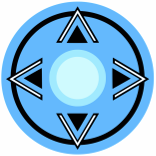
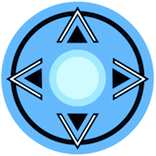
Fixed indentation of controls in CSS and changed opacity of control joysticks

diff --git a/app/assets/stylesheets/application.scss b/app/assets/stylesheets/application.scss
@@ -153,21 +153,23 @@ body {
 }
 
 div#control_rotate_circle {
-    position: absolute;
-    background-image: url(interface/joystick.png);
-    width: 156px;
-    height: 156px;
-    bottom: 20px;
-    left: 20px;
-    z-index: 100;
+  position: absolute;
+  background-image: url(interface/joystick.png);
+  width: 156px;
+  height: 156px;
+  bottom: 20px;
+  left: 20px;
+  z-index: 100;
+  opacity: 0.5;
 }
 
 div#control_pan_circle {
-    position: absolute;
-    background-image: url(interface/joystick.png);
-    width: 156px;
-    height: 156px;
-    bottom: 20px;
-    right: 20px;
-    z-index: 100;
+  position: absolute;
+  background-image: url(interface/joystick.png);
+  width: 156px;
+  height: 156px;
+  bottom: 20px;
+  right: 20px;
+  z-index: 100;
+  opacity: 0.5;
 }
